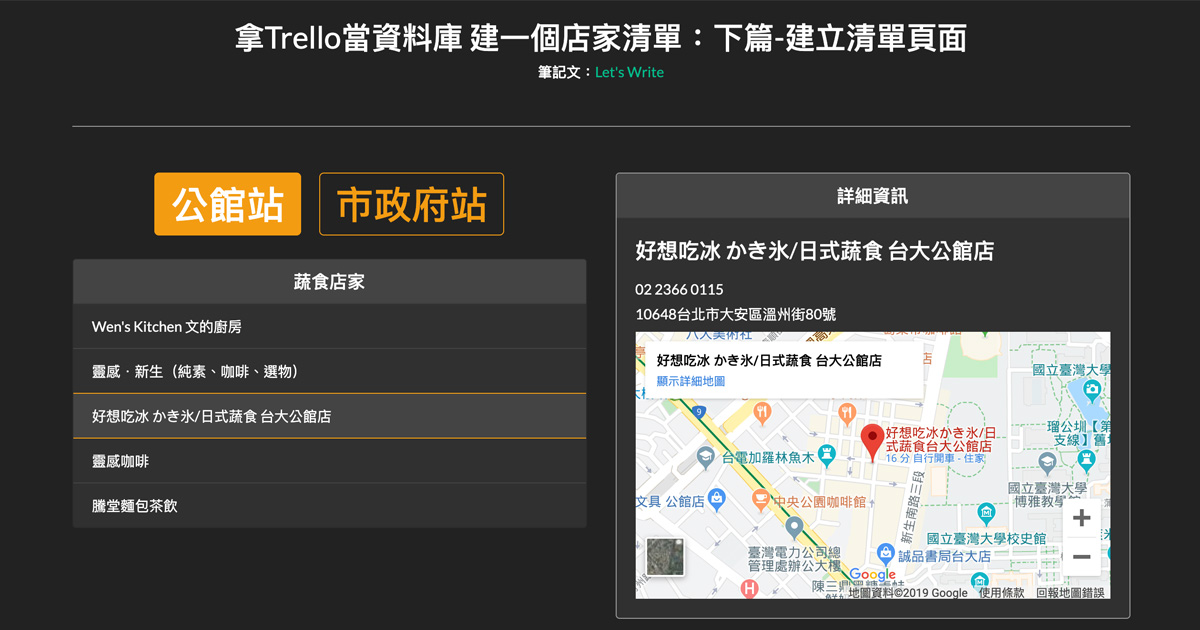
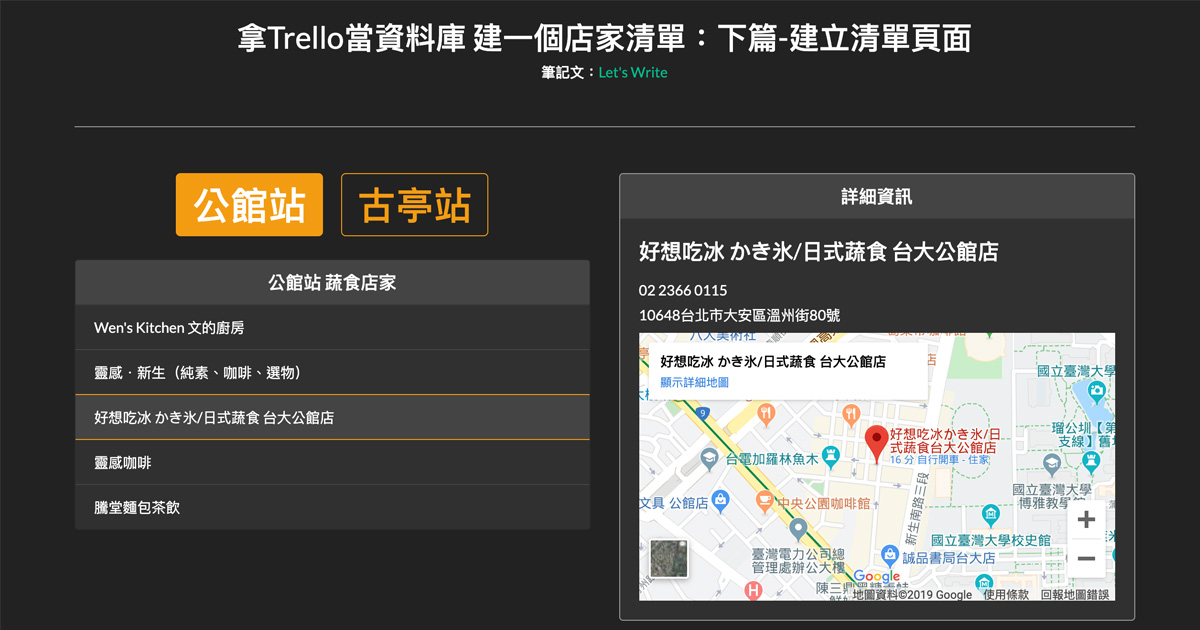
頁面完成

diff --git a/src/main.js b/src/main.js
@@ -1,50 +1,46 @@
 const ShopList = new Vue({
   el: '#app',
   data: {
+    mrt: '公館', // 站名
     cardName: '', // 卡片名稱
     shops: {}, // 店家資料
     shop: {} // 詳細資訊是哪個店家
   },
-  created() {
-
+  methods: {
     // 取得店家資料
-    function getShops(url) {
-      return new Promise((resolve, reject) => {
+    getShops(mrt) {
+      let url;
+      if(mrt === '公館') {
+        this.mrt = '公館';
+        url = 'https://trello.com/card/5da2c8a3f11397244be7ad22/-.json'
+      }
+      else if(mrt === '古亭') {
+        this.mrt = '古亭';
+        url = 'https://trello.com/card/5da5b564ca7ce5220c35c047/-.json'
+      };
 
-        fetch(url)
-          .then(res => res.json())
-          .then(results => {
-            
-            // 存卡片名稱
-            const cardName = results.name;
+      fetch(url)
+        .then(res => res.json())
+        .then(results => {
+          
+          // 存卡片名稱
+          this.cardName = results.name;
 
-            // 整理店家資料
-            let shops = {};
-            Array.prototype.forEach.call(results.checklists, (list, i) => {
-              shops[list.id] = Object.create(null, {
-                id: { value: list.id },
-                name: { value: list.name },
-                site: { value: list.checkItems[0].name },
-                tel: { value: list.checkItems[1].name }
-              });
+          // 整理店家資料
+          this.shops = {};
+          Array.prototype.forEach.call(results.checklists, (list, i) => {
+            this.shops[list.id] = Object.create(null, {
+              id: { value: list.id },
+              name: { value: list.name },
+              site: { value: list.checkItems[0].name },
+              tel: { value: list.checkItems[1].name }
             });
+          });
 
-            resolve([cardName, shops]);
-
-          })
-          .catch(err => reject(err));
-
-      });
+        })
     }
-
-    getShops('https://trello.com/card/5da2c8a3f11397244be7ad22/-.json')
-      .then(result => {
-        this.cardName = result[0];
-        this.shops = result[1];
-        console.log(this.shops)
-      });
-
-    
-
+  },
+  created() {
+    this.getShops('公館');
   },
 })

diff --git a/index.html b/index.html
@@ -56,15 +56,15 @@
           <!-- 選擇站-->
           <div class="row mb-4">
             <div class="col text-center">
-              <button class="btn btn-lg mr-2 btn-outline-warning active" type="button"><span class="h2">公館站</span></button>
-              <button class="btn btn-lg ml-2 btn-outline-warning" type="button"><span class="h2">市政府站</span></button>
+              <button class="btn btn-lg mr-2 btn-outline-warning" type="button" @click="getShops('公館')" :class="{ 'active': mrt == '公館' }"><span class="h2">公館站</span></button>
+              <button class="btn btn-lg ml-2 btn-outline-warning" type="button" @click="getShops('古亭')" :class="{ 'active': mrt == '古亭' }"><span class="h2">古亭站</span></button>
             </div>
           </div>
           <!-- 清單-->
           <div class="row">
             <div class="col">
               <div class="card mb-3">
-                <h5 class="card-header text-center">蔬食店家</h5>
+                <h5 class="card-header text-center">{{ cardName }} 蔬食店家</h5>
                 <div class="list-group list-group-flush">
                   <button class="list-group-item list-group-item-action" v-for="s in shops" :class="{ 'active': s.id === shop.id }" @click="shop = shops[s.id]">{{ s.name }}</button>
                 </div>
@@ -73,7 +73,7 @@
           </div>
         </div>
         <!-- 詳細資料-->
-        <div class="col-md-6">
+        <div class="col-md-6" v-show="shop.name !== undefined">
           <div class="card border-light">
             <h5 class="card-header text-center">詳細資訊</h5>
             <div class="card-body">

diff --git a/dist/main.min.js b/dist/main.min.js
@@ -1,1 +1,1 @@
-"use strict";var ShopList=new Vue({el:"#app",data:{cardName:"",shops:{},shop:{}},created:function(){var e,t=this;(e="https://trello.com/card/5da2c8a3f11397244be7ad22/-.json",new Promise(function(t,n){fetch(e).then(function(e){return e.json()}).then(function(e){var n=e.name,a={};Array.prototype.forEach.call(e.checklists,function(e,t){a[e.id]=Object.create(null,{id:{value:e.id},name:{value:e.name},site:{value:e.checkItems[0].name},tel:{value:e.checkItems[1].name}})}),t([n,a])}).catch(function(e){return n(e)})})).then(function(e){t.cardName=e[0],t.shops=e[1],console.log(t.shops)})}});
+"use strict";var ShopList=new Vue({el:"#app",data:{mrt:"公館",cardName:"",shops:{},shop:{}},methods:{getShops:function(e){var t,a=this;"公館"===e?(this.mrt="公館",t="https://trello.com/card/5da2c8a3f11397244be7ad22/-.json"):"古亭"===e&&(this.mrt="古亭",t="https://trello.com/card/5da5b564ca7ce5220c35c047/-.json"),fetch(t).then(function(e){return e.json()}).then(function(e){a.cardName=e.name,a.shops={},Array.prototype.forEach.call(e.checklists,function(e,t){a.shops[e.id]=Object.create(null,{id:{value:e.id},name:{value:e.name},site:{value:e.checkItems[0].name},tel:{value:e.checkItems[1].name}})})})}},created:function(){this.getShops("公館")}});
